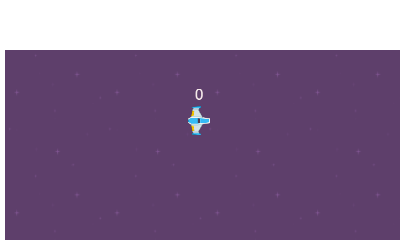
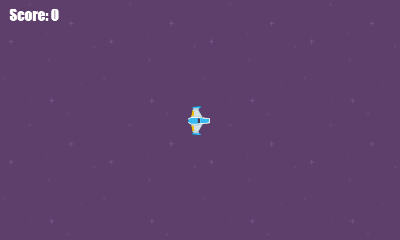
Loop v1.0

Changed region(s): [[0.0, 0.0, 1.0, 1.0], [0.48, 0.35, 0.51, 0.4375]]

diff --git a/loop/engine/GameObject.js b/loop/engine/GameObject.js
@@ -4,12 +4,14 @@ class GameObject {
         this._engine = engine;
         Object.keys(actor.properties).forEach(key => { this["_" + key] = actor[key] });
         this._name = (spawnName) ? spawnName : actor.name;
+        this._sleeping = (spawnName) ? false : actor.sleeping;
+        this._spawned = false; // to be added
         this._dead = false; // To be deleted in the fixedUpdate(), in the evaluation of logic
         this._actor = actor; // To store the original Object
         // Define get and set functions for new game properties
         var keys = Object.keys(actor.newProperties); // zIndex is included in newProperties
         keys.forEach(key => this["_" + key] = actor[key])
-        var otherKeys = ["dead", "name", "sleeping", "physicsOn", "soundOn", "collider", "actor",
+        var otherKeys = ["spawned", "dead", "name", "sleeping", "physicsOn", "soundOn", "collider", "actor",
             "container", "audio", "rigidbody", "engine"];
         keys.concat(otherKeys).forEach(key => {
             Object.defineProperty(this, key, {
@@ -65,7 +67,10 @@ class GameObject {
     }
 
     fixedUpdate(deltaTime, scope) { // logic update
-        if (this.dead) {
+        if (this.spawned) { // CRUD - CREATE
+            this.spawned = false; // Do not execute rules the first time the object is spawned
+        }
+        else if (this.dead) { // CRUD - DELETE
             if (this.audio) this.audio.source.stop(this.audio.id);
             this.engine.render.stageWorld.removeChild(this.container);
             if (this.debug) this.engine.render.stageWorld.removeChild(this.debug);
@@ -73,12 +78,12 @@ class GameObject {
             this.engine.gameObjects.delete(this.name);
             delete this.engine.scope[this.name];
         }
-        else if (!this.sleeping) {
+        else if (!this.sleeping) { // CRUD - UPDATE
             // update logic
             if (this.rule) try { this.rule.eval(scope); } catch (error) { console.log(error); }
             // update scrolling
-            if (this.scrollX != 0) this.container.sprite.tilePosition.x += this.scrollX * deltaTime;
-            if (this.scrollY != 0) this.container.sprite.tilePosition.y += this.scrollY * deltaTime;
+            if (this._scrollX != 0) this.container.sprite.tilePosition.x += this._scrollX * deltaTime;
+            if (this._scrollY != 0) this.container.sprite.tilePosition.y += this._scrollY * deltaTime;
             // update text
             if (this.textOn) {
                 this.text = math.print(this.container.text.expression, scope);
@@ -197,10 +202,10 @@ class GameObject {
             Math.abs(this._container.sprite.scale.y)
     }
 
-    get scrollX() { return this._scrollX.toFixed(0) }
+    get scrollX() { return this._scrollX }
     set scrollX(value) { this._scrollX = this._container.sprite.scrollX = value };
 
-    get scrollY() { return this._scrollY.toFixed(0) }
+    get scrollY() { return this._scrollY }
     set scrollY(value) { this._scrollY = this._container.sprite.scrollY = value }
 
     get tileX() { return this._tileX.toFixed(1) }
@@ -291,13 +296,19 @@ class GameObject {
     get fixedAngle() { return this._fixedAngle }
     set fixedAngle(value) { this._fixedAngle = value; this._rigidbody.setFixedRotation(value) }
 
-    get velocityX() { return this._velocityX.toFixed(1) }
+    get velocityX() {
+        this._velocityX = this._rigidbody.getLinearVelocity().x * Physics.pixelsPerMeter;
+        return this._velocityX.toFixed(1)
+    }
     set velocityX(value) {
         this._velocityX = value;
         this._rigidbody.setLinearVelocity(planck.Vec2(value * Physics.metersPerPixel, this._rigidbody.getLinearVelocity().y))
     }
 
-    get velocityY() { return this._velocityY.toFixed(1) }
+    get velocityY() {
+        this._velocityY = this._rigidbody.getLinearVelocity().y * Physics.pixelsPerMeter;
+        return this._velocityY.toFixed(1)
+    }
     set velocityY(value) {
         this._velocityY = value;
         this._rigidbody.setLinearVelocity(planck.Vec2(this._rigidbody.getLinearVelocity().x, value * Physics.metersPerPixel))

diff --git a/loop/engine/Engine.js b/loop/engine/Engine.js
@@ -14,6 +14,7 @@ class Engine {
         this.sceneList = new Object();
         gameModel.sceneList.forEach(scene => { this.sceneList[scene.name] = scene; });
         // Start audio engine
+        this.gameLevel = new GameLevel(this);
         this.aural = new Aural(this.gameModel);
         // Load currente scene
         this.currentScene = gameModel.sceneList[0].name;
@@ -42,7 +43,7 @@ class Engine {
     loadScene(scene) {
         this.resume(); // Active the different engines
         // Create new data structures
-        this.gameLevel = new GameLevel(this);
+        this.gameLevel.updateScene();
         this.gameObjects = new Map();
         this.scope = new Object({ "Game": this.gameLevel, "Engine": this });
         // Init engines
@@ -79,14 +80,16 @@ class Engine {
     spawn(spawnerObject, gameObject, x, y, angle) {
         if (gameObject) { // spawn new gameObject if exists
             var spawnName = gameObject.name + Utils.id();
-            gameObject.actor.sleeping = false; // to active the object
+            //gameObject.actor.sleeping = false; // to active the object
             var spawnObject = new GameObject(this, gameObject.actor, spawnName);
             spawnObject.rigidbody.setUserData({ name: spawnName, tags: spawnObject.actor.tags });
             spawnObject = Object.assign(spawnObject, {
                 "x": spawnerObject.x + x * Math.cos(Utils.radians(spawnerObject.angle) - y * Math.sin(Utils.radians(spawnerObject.angle))),
                 "y": spawnerObject.y + x * Math.sin(Utils.radians(spawnerObject.angle) + y * Math.sin(Utils.radians(spawnerObject.angle))),
                 "angle":  spawnerObject.angle * 1.0 + gameObject.angle * 1.0   + angle * 1.0 ,
+                "sleeping" : false
             });
+            spawnObject.spawned = true; // to avoid execute rules the first time
             this.scope[spawnObject.name] = spawnObject;
             this.gameObjects.set(spawnObject.name, spawnObject);
         }
@@ -156,7 +159,7 @@ class Engine {
     // conditions
     timer(gameObject, id, expression) {
         var lostFlow = ((gameObject.timer[id].previousTime - gameObject.timer[id].time) > 0);
-        var secReached = (gameObject.timer[id].time >= gameObject.timer[id].seconds * 1000);
+        var secReached = (gameObject.timer[id].time >= gameObject.timer[id].seconds );
         if (lostFlow || secReached) {
             gameObject.timer[id] = { time: 0.0, previousTime: 0.0, seconds: math.eval(expression) };
             return true;
@@ -173,7 +176,6 @@ class Engine {
         var value = true;
         tagsToCollide.forEach(tag => {
             value = (value && (gameObject.collision[tag].size > 0));
-            console.log(value,tag,gameObject.collision[tag].size);
         })
         return value;
     }

diff --git a/loop/engine/Logic.js b/loop/engine/Logic.js
@@ -2,7 +2,6 @@ class Logic {
 
     fixedUpdate(engine, dt) { // time in miliseconds
         engine.gameObjects.forEach(gameObject => { 
-            console.log(gameObject.name);
             if (engine.logicOn) gameObject.fixedUpdate(dt, engine.scope); 
             else if (gameObject.resume) gameObject.fixedUpdate(dt, engine.scope);
         })

diff --git a/loop/engine/GameLevel.js b/loop/engine/GameLevel.js
@@ -14,6 +14,12 @@ class GameLevel {
         }
     }
 
+    updateScene (){
+        for (let key in this._engine.gameModel.properties) {
+            this["_" + key] = this._engine.gameModel.properties[key];
+        }
+    }
+
     // Render Properties
     get displayWidth() { return this._displayWidth }
 
